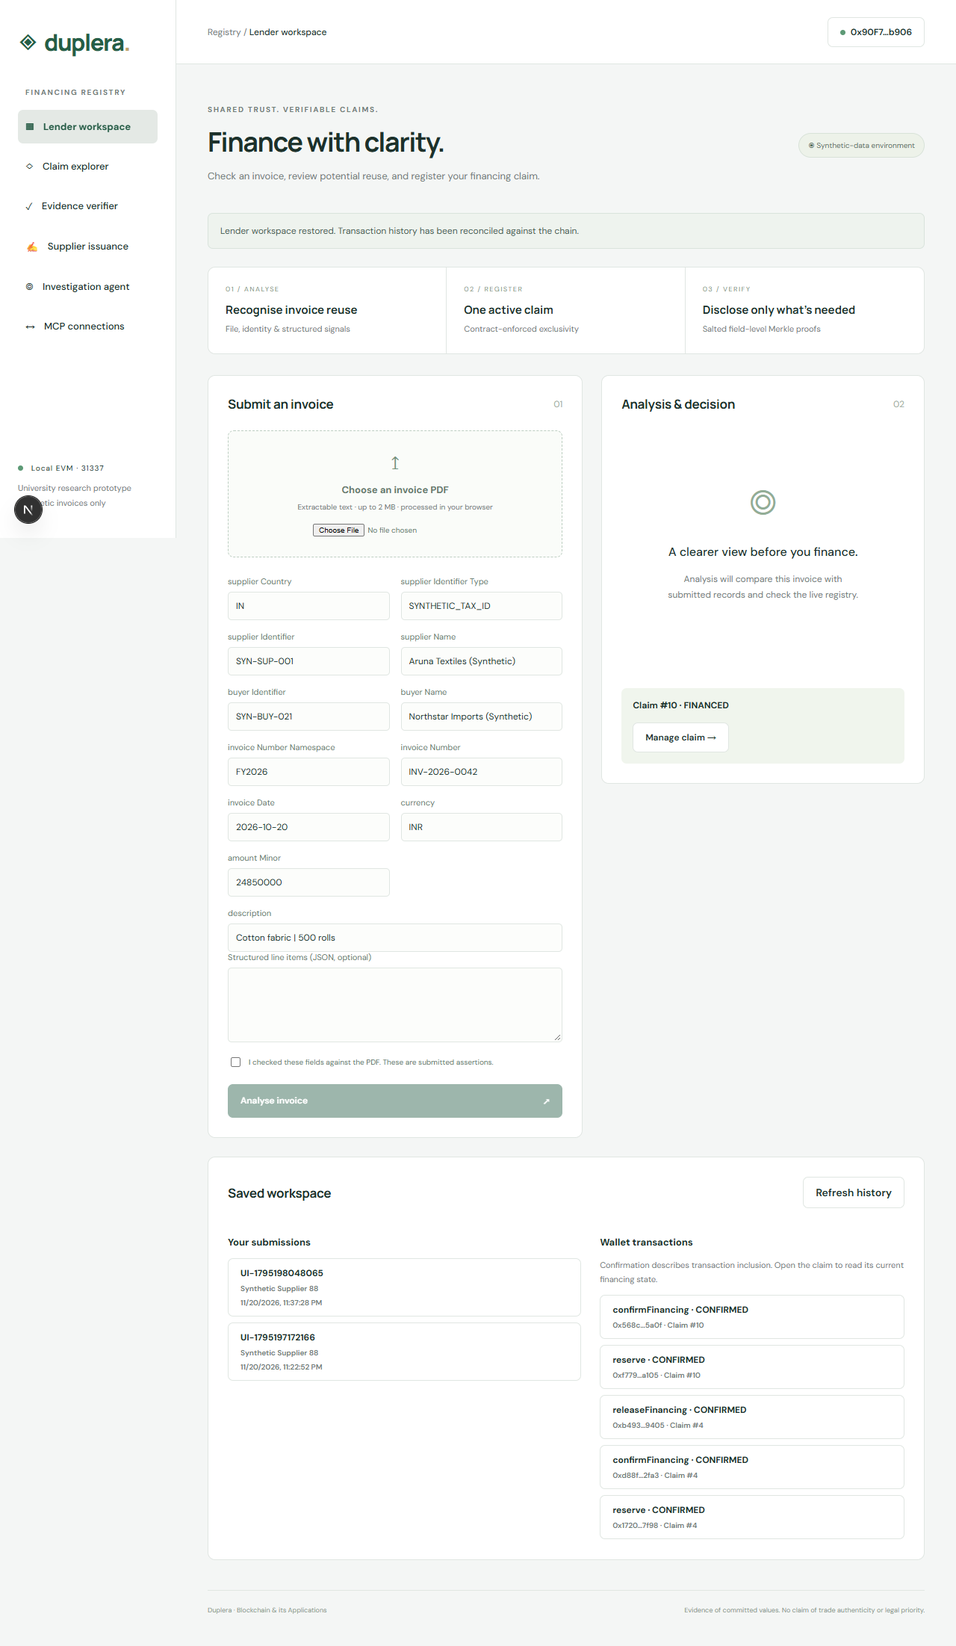
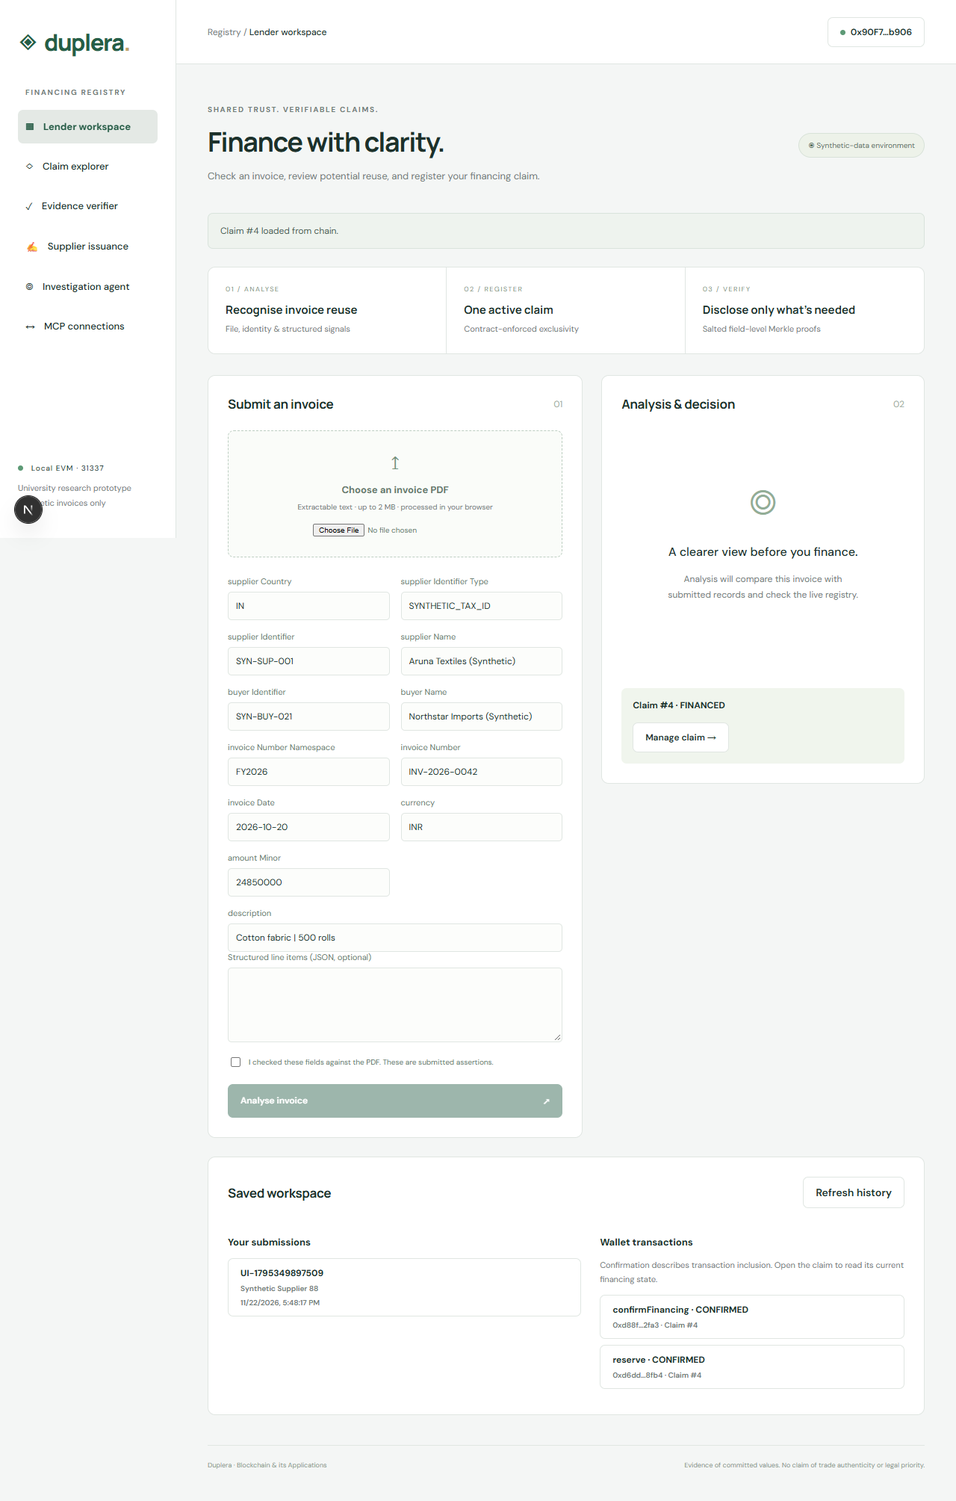
Recover confirmed claims through independent RPC reads

diff --git a/apps/web/app/page.tsx b/apps/web/app/page.tsx
@@ -64,12 +64,22 @@ export default function Home(){
     const a=await api('submissions/'+id+'/analyse',{});setAnalysis(a);if(config)await refreshWorkspace(config,wallet);
     setNotice(a.status==='ACTIVE_CONFLICT'?'An active exact claim blocks this invoice.':'Analysis complete. Review the signals before reserving.');
   }
-  async function reserve(){if(!analysis||!submission||!config)return;if(analysis.status==="REVIEW_REQUIRED")await api(`analyses/${analysis.id}/review`,{disposition:review});const approvalKey='duplera-approval:'+config.chainId+':'+config.address+':'+wallet+':'+analysis.id;let requestKey=localStorage.getItem(approvalKey);if(!requestKey){requestKey=crypto.randomUUID();localStorage.setItem(approvalKey,requestKey);}const approval=await api(`submissions/${submission}/attest`,{analysisId:analysis.id,idempotencyKey:requestKey});const p=await provider(),s=await p.getSigner();if((await s.getAddress()).toLowerCase()!==wallet.toLowerCase())throw new Error("Wallet differs from authenticated lender");const c=new Contract(config.address,config.abi,s);setNotice("Open MetaMask to confirm the reservation transaction. Waiting for wallet approval…");const tx=await c.reserve(approval.payload,approval.signature);remember(config,wallet,tx.hash,submission);try{await api('transactions',{hash:tx.hash,submissionId:submission})}catch{}setNotice(`Pending reservation: ${tx.hash}. This transaction can be recovered after a reload.`);const r=await tx.wait(config.confirmations??1);if(!r||r.status!==1)throw new Error("Reservation failed");const event=r.logs.map((l:any)=>{try{return c.interface.parseLog(l)}catch{return null}}).find((l:any)=>l?.name==="ClaimReserved");if(!event)throw new Error("Expected reservation event missing");const id=event.args.claimId.toString();setClaimId(id);await readClaim(id);await refreshWorkspace(config,wallet);setNotice(`Reservation included in block ${r.blockNumber}. Application policy: ${config.confirmations??1} confirmation(s). Claim #${id}.`);}
+  async function reserve(){if(!analysis||!submission||!config)return;if(analysis.status==="REVIEW_REQUIRED")await api(`analyses/${analysis.id}/review`,{disposition:review});const approvalKey='duplera-approval:'+config.chainId+':'+config.address+':'+wallet+':'+analysis.id;let requestKey=localStorage.getItem(approvalKey);if(!requestKey){requestKey=crypto.randomUUID();localStorage.setItem(approvalKey,requestKey);}const approval=await api(`submissions/${submission}/attest`,{analysisId:analysis.id,idempotencyKey:requestKey});const p=await provider(),s=await p.getSigner();if((await s.getAddress()).toLowerCase()!==wallet.toLowerCase())throw new Error("Wallet differs from authenticated lender");const c=new Contract(config.address,config.abi,s);setNotice("Open MetaMask to confirm the reservation transaction. Waiting for wallet approval…");const tx=await c.reserve(approval.payload,approval.signature);remember(config,wallet,tx.hash,submission);setNotice(`Pending reservation: ${tx.hash}. This transaction can be recovered after a reload.`);const r=await confirmedTransaction(tx,submission);const id=r.claimId;setClaimId(id);try{await readClaim(id)}catch{}try{await refreshWorkspace(config,wallet)}catch{}setNotice(`Reservation included in block ${r.blockNumber}. Application policy: ${config.confirmations??1} confirmation(s). Claim #${id}.`);}
+  async function confirmedTransaction(tx:any,submissionId?:string){
+    const tracked=async()=>{try{const r=await api('transactions',{hash:tx.hash,...(submissionId?{submissionId}:{})});if(r.status==='CONFIRMED'&&r.claimId&&r.blockNumber)return r;}catch{}return null;};
+    const saved=await tracked();if(saved)return saved;
+    let receipt:any;try{receipt=await tx.wait(config?.confirmations??1)}catch(error){const recovered=await tracked();if(recovered)return recovered;throw error;}
+    if(!receipt||receipt.status!==1)throw new Error('Transaction failed');
+    let id=claimId;
+    if(submissionId){const c=new Contract(config!.address,config!.abi);const event=receipt.logs.map((l:any)=>{try{return c.interface.parseLog(l)}catch{return null}}).find((l:any)=>l?.name==='ClaimReserved');if(!event)throw new Error('Expected reservation event missing');id=event.args.claimId.toString();}
+    return {claimId:id,blockNumber:receipt.blockNumber};
+  }
   async function readClaim(id=claimId){
-    if(!config||!id)return;const c=new Contract(config.address,config.abi,await provider());
-    const raw=await c.getClaim(id),state=Number(await c.getEffectiveStatus(id));let metadataConsistent:boolean|null=null;
-    if(wallet){try{metadataConsistent=(await api('claims/'+id)).metadataConsistent}catch{}}
-    setClaim({id,lender:raw.lender,root:raw.evidenceRoot,context:raw.evidenceContext,state,recordedState:Number(raw.state),deadline:Number(raw.reservationDeadline),metadataConsistent});
+    if(!config||!id)return;
+    if(wallet){try{const raw=await api('claims/'+id);if(raw.chainId!==config.chainId||raw.contractAddress.toLowerCase()!==config.address.toLowerCase())throw new Error('Claim deployment mismatch');setClaim({id,lender:raw.lender,root:raw.evidenceRoot,context:raw.evidenceContext,state:raw.effectiveState,recordedState:raw.recordedState,deadline:raw.reservationDeadline,metadataConsistent:raw.metadataConsistent});return;}catch{}}
+    const c=new Contract(config.address,config.abi,await provider());
+    const raw=await c.getClaim(id),state=Number(await c.getEffectiveStatus(id));
+    setClaim({id,lender:raw.lender,root:raw.evidenceRoot,context:raw.evidenceContext,state,recordedState:Number(raw.state),deadline:Number(raw.reservationDeadline),metadataConsistent:null});
   }
   async function transition(action:string){
     if(!config||!claimId)return;const p=await provider(),signing=await p.getSigner();
@@ -77,9 +87,8 @@ export default function Home(){
     setNotice("Open MetaMask to review and confirm this transaction. Waiting for wallet approval…");
     const c=new Contract(config.address,config.abi,signing),tx=await c[action](claimId);
     const who=await signing.getAddress();remember(config,who,tx.hash);
-    try{await api('transactions',{hash:tx.hash})}catch{}
-    setNotice('Pending wallet transaction: '+tx.hash);const receipt=await tx.wait(config.confirmations??1);if(!receipt||receipt.status!==1)throw new Error('Transaction failed');
-    await readClaim();try{await refreshWorkspace(config,who)}catch{}
+    setNotice('Pending wallet transaction: '+tx.hash);const receipt=await confirmedTransaction(tx);
+    try{await readClaim()}catch{}try{await refreshWorkspace(config,who)}catch{}
     const label:Record<string,string>={confirmFinancing:'Financing confirmed',cancelReservation:'Reservation cancelled',releaseFinancing:'Financing released',expireReservation:'Reservation expired'};
     setNotice(label[action]+' in block '+receipt.blockNumber+'.');
   }
@@ -87,7 +96,7 @@ export default function Home(){
   return <div className="shell"><aside><a className="brand" href="/">◈ <span>duplera<span className="brand-dot">.</span></span></a><p className="eyebrow">FINANCING REGISTRY</p><nav>{[["workspace","▦","Lender workspace"],["claims","◇","Claim explorer"],["verify","✓","Evidence verifier"],["supplier","✍","Supplier issuance"],["investigate","◎","Investigation agent"],["mcp","↔","MCP connections"]].map(([id,icon,label])=><button className={tab===id?"active":""} key={id} onClick={()=>setTab(id)}><span>{icon}</span>{label}</button>)}</nav><div className="sidebar-bottom"><span className="live-dot"/> {config?.chainId===80002?"Polygon Amoy":config?.chainId===31337?"Local EVM":"Chain"} · {config?.chainId??"…"}<p>University research prototype<br/>Synthetic invoices only</p></div></aside><main><header><span>Registry / <strong>{tab==="workspace"?"Lender workspace":tab==="claims"?"Claim explorer":tab==="supplier"?"Supplier issuance":tab==="investigate"?"Investigation agent":tab==="mcp"?"MCP connections":"Evidence verifier"}</strong></span><button className="wallet" disabled={busy||!config} onClick={()=>run(connect)}><span className="live-dot"/>{wallet?short(wallet):"Connect wallet"}</button></header><div className="content"><div className="page-heading"><div><p className="eyebrow">SHARED TRUST. VERIFIABLE CLAIMS.</p><h1>{tab==="workspace"?"Finance with clarity.":tab==="claims"?"Every claim has a history.":tab==="supplier"?"An accountable invoice history.":tab==="investigate"?"Investigate with evidence.":tab==="mcp"?"Connect your investigation tools.":"Verify what was committed."}</h1><p>{tab==="workspace"?"Check an invoice, review potential reuse, and register your financing claim.":tab==="claims"?"Read authoritative state and manage claims directly through your wallet.":tab==="supplier"?"Sign invoice versions and preserve their amendment lineage.":tab==="investigate"?"Review permitted evidence and current registry state with a bounded agent.":tab==="mcp"?"Give external clients scoped, revocable access to your evidence.":"Check disclosed fields against the registry’s on-chain evidence root."}</p></div><span className="pill">◉ Synthetic-data environment</span></div><div className="notice" role="status">{busy&&<span className="spinner"/>}{notice}</div>
   {["supplier","investigate","mcp"].includes(tab)&&<ResearchConsole tab={tab} submission={submission} invoice={invoice} onImport={(pkg,versionDigest,fileDigest)=>{setInvoice(pkg.invoice);setIssuerDigest(versionDigest);setDigest(fileDigest);setFilename("Supplier-signed package");setConfirmed(false);setSubmission("");setAnalysis(undefined);setClaim(undefined);submissionKey.current=crypto.randomUUID();setTab("workspace");}}/>}
   {tab==="workspace"&&<><div className="stats"><div><span>01 / ANALYSE</span><strong>Recognise invoice reuse</strong><p>File, identity & structured signals</p></div><div><span>02 / REGISTER</span><strong>One active claim</strong><p>Contract-enforced exclusivity</p></div><div><span>03 / VERIFY</span><strong>Disclose only what’s needed</strong><p>Salted field-level Merkle proofs</p></div></div><div className="workspace-grid"><section className="card"><div className="card-heading"><h2>Submit an invoice</h2><span className="step">01</span></div><label className="upload"><span>↥</span><strong>{filename||"Choose an invoice PDF"}</strong><small>Extractable text · up to 2 MB · processed in your browser</small><input type="file" accept="application/pdf" disabled={busy} onChange={e=>{const file=e.target.files?.[0];if(file)run(()=>extract(file))}}/></label><div className="fields">{(Object.keys(invoice).filter(k=>k!=="lineItemsJson") as (keyof Invoice)[]).map(k=><label key={k} className={k==="description"?"full":""}>{k.replace(/([A-Z])/g," $1")}<input value={invoice[k]} onChange={e=>{setInvoice({...invoice,[k]:e.target.value});setConfirmed(false);setSubmission("");setAnalysis(undefined);setClaim(undefined);submissionKey.current=crypto.randomUUID()}}/></label>)}</div><label>Structured line items (JSON, optional)<textarea value={invoice.lineItemsJson??""} onChange={e=>{const updated={...invoice};if(e.target.value.trim())updated.lineItemsJson=e.target.value;else delete updated.lineItemsJson;setInvoice(updated);setConfirmed(false);setSubmission("");setAnalysis(undefined);}}/></label><label className="checkbox"><input type="checkbox" checked={confirmed} onChange={e=>setConfirmed(e.target.checked)}/>I checked these fields against the PDF. These are submitted assertions.</label><button className="primary" disabled={busy||!wallet||!confirmed||!digest} onClick={()=>run(analyse)}>Analyse invoice <span>↗</span></button></section><section className="card analysis"><div className="card-heading"><h2>Analysis & decision</h2><span className="step">02</span></div>{!analysis?<div className="empty"><span>◎</span><h3>A clearer view before you finance.</h3><p>Analysis will compare this invoice with submitted records and check the live registry.</p></div>:<><span className={`result ${analysis.status==="ACTIVE_CONFLICT"?"danger":""}`}>{analysis.status.replaceAll("_"," ")}</span><p className="muted">A similarity alert indicates a possible relationship, not fraudulent intent.</p>{analysis.matches.length===0?<p>No matching records found within the configured search scope.</p>:analysis.matches.map((m,i)=><div className="match" key={i}><strong>{m.relation.replaceAll("_"," ")} <span>{Math.round(m.score*100)} / 100</span></strong><small>Reference {m.reference}{m.sameFile?" · identical PDF bytes":""}</small><details><summary>Explain matching signals</summary>{m.signals.map(s=><p key={s.name}>{s.name}<b>{Math.round(s.value*100)}%</b></p>)}</details></div>)}{analysis.status==="REVIEW_REQUIRED"&&<label>Review disposition<textarea placeholder="Explain why proceeding is appropriate (at least 20 characters)." value={review} onChange={e=>setReview(e.target.value)}/></label>}<button className="primary" disabled={busy||(claim?.state===1||claim?.state===2)||analysis.status==="ACTIVE_CONFLICT"||(analysis.status==="REVIEW_REQUIRED"&&review.trim().length<20)} onClick={()=>run(reserve)}>Reserve with wallet ↗</button><p className="muted">Approval expires in 5 minutes. Reservations last 15 minutes. The contract checks for competing claims atomically.</p></>}{claim&&<div className="claim-banner"><strong>Claim #{claim.id} · {['NONE','RESERVED','FINANCED','CANCELLED','EXPIRED','RELEASED'][claim.state]}</strong><button onClick={()=>setTab("claims")}>Manage claim →</button></div>}</section></div></>}
-  {tab==="claims"&&<div className="workspace-grid"><section className="card"><h2>Read a claim</h2><label>Claim ID<input value={claimId} onChange={e=>{setClaimId(e.target.value);setClaim(undefined)}} placeholder="1"/></label><button className="primary" disabled={busy||!config} onClick={()=>run(()=>readClaim())}>Read from chain ↗</button>{claim&&<div className="claim-detail">{claim.metadataConsistent===false&&<p role="alert" className="notice">Stored invoice metadata differs from the recorded commitment. Financing state below comes from the contract.</p>}<span className="result">{['NONE','RESERVED','FINANCED','CANCELLED','EXPIRED','RELEASED'][claim.state]}</span><dl><dt>Lender</dt><dd>{claim.lender}</dd><dt>Evidence root</dt><dd>{claim.root}</dd><dt>Reservation deadline</dt><dd>{new Date(claim.deadline*1000).toLocaleString()}</dd></dl><div className="actions">{[['confirmFinancing','Confirm financing'],['cancelReservation','Cancel reservation'],['releaseFinancing','Release financing'],['expireReservation','Finalise expiry']].map(([action,label])=><button key={action} disabled={busy||!wallet||(action==="expireReservation"?!(claim.state===4&&claim.recordedState===1):claim.lender.toLowerCase()!==wallet.toLowerCase()||(action==="releaseFinancing"?claim.state!==2:claim.state!==1))} onClick={()=>run(()=>transition(action))}>{label}</button>)}</div><p className="muted">Your wallet submits each transition directly to the contract. It enforces ownership, membership and lifecycle rules.</p></div>}</section><section className="card"><h2>Export selected evidence</h2><label>Saved submission<select value={submission} onChange={e=>run(async()=>{const saved=await api('submissions/'+e.target.value);setSubmission(saved.id);setInvoice(saved.invoice);setDigest(saved.pdfDigest);setIssuerDigest(saved.issuerDigest??"");setNotice('Submission selected. Enter its claim ID or choose its transaction below.');})}><option value="">Choose a submission</option>{history.map(h=><option key={h.id} value={h.id}>{h.original.invoiceNumber} · {new Date(h.created_at).toLocaleDateString()}</option>)}</select></label><p className="muted">Choose a saved submission and its claim to export only the selected fields.</p>{Object.keys({...sample,...(invoice.lineItemsJson?{lineItemsJson:""}:{}),...(issuerDigest?{issuerVersionDigest:""}:{})}).map(k=><label className="checkbox" key={k}><input type="checkbox" checked={selected.includes(k)} onChange={e=>setSelected(e.target.checked?[...selected,k]:selected.filter(x=>x!==k))}/>{k}</label>)}<button className="primary" disabled={busy||!submission||!claimId||!selected.length} onClick={()=>run(exportEvidence)}>Export disclosure package ↓</button></section></div>}
+  {tab==="claims"&&<div className="workspace-grid"><section className="card"><h2>Read a claim</h2><label>Claim ID<input value={claimId} onChange={e=>{setClaimId(e.target.value);setClaim(undefined)}} placeholder="1"/></label><button className="primary" disabled={busy||!config} onClick={()=>run(async()=>{await readClaim();setNotice(`Claim #${claimId} loaded from chain.`)})}>Read from chain ↗</button>{claim&&<div className="claim-detail">{claim.metadataConsistent===false&&<p role="alert" className="notice">Stored invoice metadata differs from the recorded commitment. Financing state below comes from the contract.</p>}<span className="result">{['NONE','RESERVED','FINANCED','CANCELLED','EXPIRED','RELEASED'][claim.state]}</span><dl><dt>Lender</dt><dd>{claim.lender}</dd><dt>Evidence root</dt><dd>{claim.root}</dd><dt>Reservation deadline</dt><dd>{new Date(claim.deadline*1000).toLocaleString()}</dd></dl><div className="actions">{[['confirmFinancing','Confirm financing'],['cancelReservation','Cancel reservation'],['releaseFinancing','Release financing'],['expireReservation','Finalise expiry']].map(([action,label])=><button key={action} disabled={busy||!wallet||(action==="expireReservation"?!(claim.state===4&&claim.recordedState===1):claim.lender.toLowerCase()!==wallet.toLowerCase()||(action==="releaseFinancing"?claim.state!==2:claim.state!==1))} onClick={()=>run(()=>transition(action))}>{label}</button>)}</div><p className="muted">Your wallet submits each transition directly to the contract. It enforces ownership, membership and lifecycle rules.</p></div>}</section><section className="card"><h2>Export selected evidence</h2><label>Saved submission<select value={submission} onChange={e=>run(async()=>{const saved=await api('submissions/'+e.target.value);setSubmission(saved.id);setInvoice(saved.invoice);setDigest(saved.pdfDigest);setIssuerDigest(saved.issuerDigest??"");setNotice('Submission selected. Enter its claim ID or choose its transaction below.');})}><option value="">Choose a submission</option>{history.map(h=><option key={h.id} value={h.id}>{h.original.invoiceNumber} · {new Date(h.created_at).toLocaleDateString()}</option>)}</select></label><p className="muted">Choose a saved submission and its claim to export only the selected fields.</p>{Object.keys({...sample,...(invoice.lineItemsJson?{lineItemsJson:""}:{}),...(issuerDigest?{issuerVersionDigest:""}:{})}).map(k=><label className="checkbox" key={k}><input type="checkbox" checked={selected.includes(k)} onChange={e=>setSelected(e.target.checked?[...selected,k]:selected.filter(x=>x!==k))}/>{k}</label>)}<button className="primary" disabled={busy||!submission||!claimId||!selected.length} onClick={()=>run(exportEvidence)}>Export disclosure package ↓</button></section></div>}
   {tab==="verify"&&<section className="card verifier"><h2>Independent evidence check</h2><p>Paste a disclosure package or open an exported JSON file. Verification reads the claim root from the configured chain.</p><input type="file" accept="application/json" onChange={e=>{const f=e.target.files?.[0];if(f)run(async()=>{if(f.size>30000)throw new Error("Package exceeds 30 KB");setReceipt(await f.text());setVerification(undefined)})}}/><textarea className="code" value={receipt} onChange={e=>{setReceipt(e.target.value);setVerification(undefined)}} placeholder='{"chainId":31337,"contractAddress":"0x…",…}'/><button className="primary" disabled={busy||!receipt} onClick={()=>run(async()=>setVerification(await api("verify",JSON.parse(receipt))))}>Verify against live chain ↗</button>{verification&&<div className={`verification ${verification.valid?"valid":"invalid"}`}><h3>{verification.valid?"✓ Disclosed fields verified":"× Evidence verification failed"}</h3><p>{verification.meaning}</p><small>Source: {verification.source}</small></div>}</section>}
   {wallet&&<section className="card history"><div className="card-heading"><h2>Saved workspace</h2><button disabled={busy} onClick={()=>run(async()=>{if(config)await refreshWorkspace(config,wallet);setNotice('Workspace and transaction states refreshed from the chain.');})}>Refresh history</button></div><div className="workspace-grid"><div><h3>Your submissions</h3>{history.length===0?<p className="muted">No saved submissions yet.</p>:history.map(h=><button className="history-row" key={h.id} onClick={()=>run(()=>loadSubmission(h.id))}><strong>{h.original.invoiceNumber}</strong><span>{h.original.supplierName}</span><small>{new Date(h.created_at).toLocaleString()}</small></button>)}</div><div><h3>Wallet transactions</h3><p className="muted">Confirmation describes transaction inclusion. Open the claim to read its current financing state.</p>{transactions.map(t=><button className="history-row" key={t.hash} onClick={()=>run(async()=>{if(t.submissionId)setSubmission(t.submissionId);if(t.claimId){setClaimId(t.claimId);await readClaim(t.claimId);setTab('claims');}else setNotice(t.status+': '+t.hash);})}><strong>{t.action} · {t.status}</strong><span>{short(t.hash)}{t.claimId?' · Claim #'+t.claimId:''}</span></button>)}</div></div></section>}
   <footer><span>Duplera · Blockchain & its Applications</span><span>Evidence of committed values. No claim of trade authenticity or legal priority.</span></footer></div></main></div>;

diff --git a/tests/e2e/workflow.spec.ts b/tests/e2e/workflow.spec.ts
@@ -47,9 +47,10 @@ test("private API lifecycle, conflict protection and independent disclosure",asy
  await a.dispose();await b.dispose();
 });
 test("browser extracts a PDF, signs a reservation and finances the claim",async({page})=>{
- const w=wallet(3);await page.exposeFunction("testWalletRequest",async({method,params=[]}:{method:string;params:any[]})=>{
+ let failWalletReads=false;const w=wallet(3);await page.exposeFunction("testWalletRequest",async({method,params=[]}:{method:string;params:any[]})=>{
   if(method==="eth_requestAccounts"||method==="eth_accounts")return [w.address];
   if(method==="personal_sign")return w.signMessage(getBytes(params[0]));
+  if(failWalletReads&&['eth_call','eth_getTransactionReceipt'].includes(method))throw Object.assign(Error('Simulated wallet RPC read outage'),{code:'NETWORK_ERROR'});
   return rpc.send(method,params);
  });
  await page.addInitScript(()=>{(window as any).ethereum={request:(req:any)=>(window as any).testWalletRequest(req),on:()=>{},removeListener:()=>{}}});
@@ -62,19 +63,20 @@ test("browser extracts a PDF, signs a reservation and finances the claim",async(
  await page.getByRole("checkbox").check();await page.getByRole("button",{name:"Analyse invoice"}).click();
  await expect(page.getByRole("status")).toContainText("Analysis complete");
  const review=page.getByPlaceholder("Explain why proceeding is appropriate (at least 20 characters).");if(await review.isVisible())await review.fill("Synthetic generated test has a distinct invoice number and approved scope.");
- await page.getByRole("button",{name:"Reserve with wallet"}).click();await expect(page.getByRole("status")).toContainText("Reservation included",{timeout:30000});
+ failWalletReads=true;await page.getByRole("button",{name:"Reserve with wallet"}).click();await expect(page.getByRole("status")).toContainText("Reservation included",{timeout:30000});
  await page.getByRole("button",{name:"Manage claim"}).click();await page.getByRole("button",{name:"Confirm financing",exact:true}).click();await expect(page.getByRole("status")).toContainText("Financing confirmed");
  await page.reload();await expect(page.getByRole('status')).toContainText('workspace restored',{timeout:30000});
  await expect(page.getByRole('heading',{name:'Saved workspace'})).toBeVisible();
  await expect(page.locator('.history-row').filter({hasText:'CONFIRMED'}).first()).toBeVisible();
  await page.locator('.history-row').filter({hasText:'confirmFinancing'}).first().click();
  await expect(page.getByRole('heading',{name:'Read a claim'})).toBeVisible();
+ await page.getByRole('button',{name:/Read from chain/}).click();await expect(page.getByRole('status')).toContainText('loaded from chain');
  await page.evaluate(()=>window.scrollTo(0,0));
  await page.screenshot({path:"docs/results/claim-explorer.png",fullPage:true});
  await page.getByRole("button",{name:"Lender workspace"}).click();await page.evaluate(()=>window.scrollTo(0,0));
  await page.screenshot({path:"docs/results/workspace.png",fullPage:true});
  await page.getByRole("button",{name:/Claim explorer/}).click();
- await page.route('**/api/**',route=>route.abort('failed'));
+ failWalletReads=false;await page.route('**/api/**',route=>route.abort('failed'));
  await page.getByRole("button",{name:"Release financing",exact:true}).click();
  await expect(page.getByRole('status')).toContainText('Financing released',{timeout:30000});
  await page.unroute('**/api/**');await page.reload();
